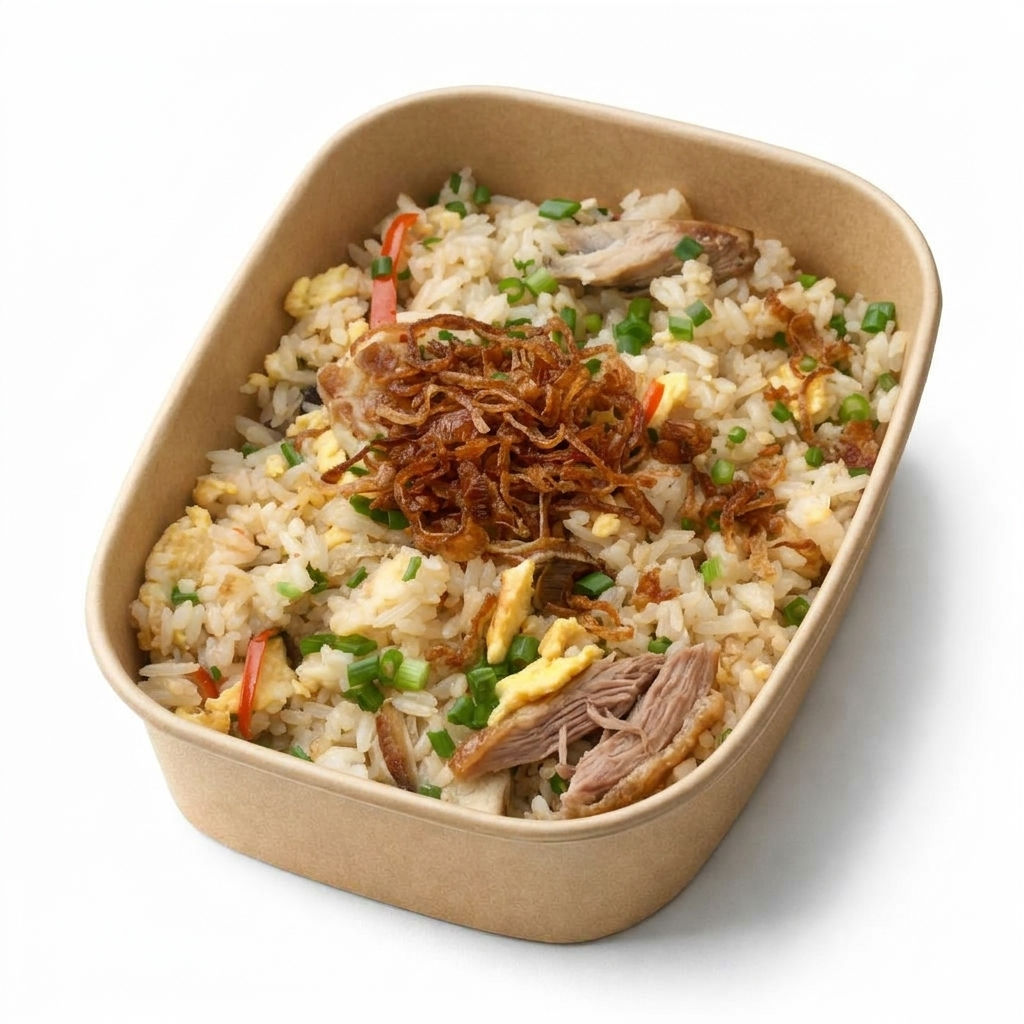
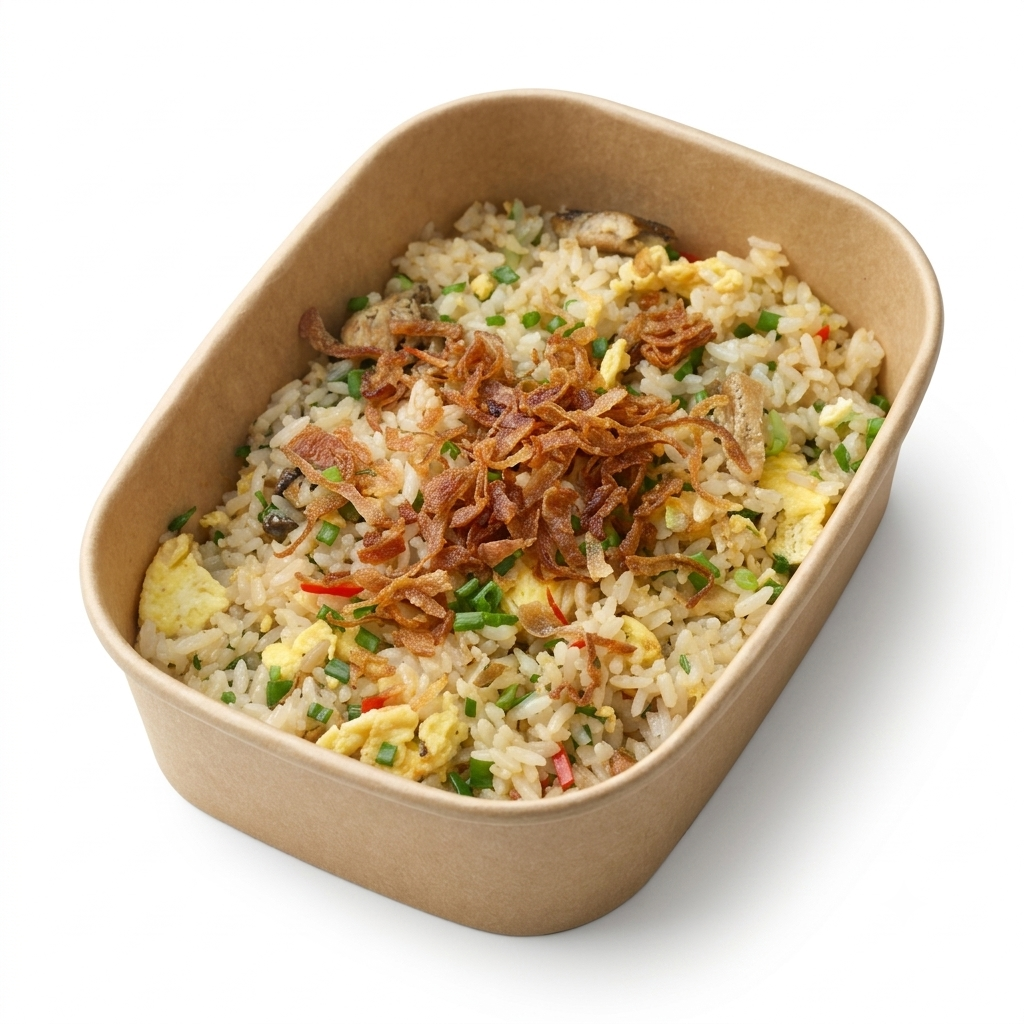
changes

diff --git a/app/Data/MamaMenuData.php b/app/Data/MamaMenuData.php
@@ -58,7 +58,7 @@ class MamaMenuData
                         self::product('MFR 20.', 'Korean BBQ Chicken Fried Rice', 'Fluffy rice tossed with tender chicken marinated in Korean BBQ sauce, egg, and stir-fried greens.', self::PRICE_380, '20.jpg', self::KHR_380),
                         self::product('MFR 22.', 'Roasted Duck Breast Fried Rice', 'Premium fried rice cooked with dark soy sauce, roasted duck breast, egg, and scallions.', self::PRICE_380, '22.jpg', self::KHR_380),
                         self::product('MFR 24.', 'Beef Laksa Fried Rice', 'A bold fusion creation packing laksa curry paste, beef, and egg into a wok-fried rice bowl.', self::PRICE_430, '24.jpg', self::KHR_430),
-                        self::product('MFR 25.', 'Mackerel Coconut Fried Rice', 'Deeply savory fried rice blending creamy coconut, flaked mackerel, egg, and local herbs.', self::PRICE_380, '25.jpg', self::KHR_380),
+                        self::product('MFR 25.', 'Mackerel Coconut Fried Rice', 'Deeply savory fried rice blending creamy coconut, flaked mackerel, egg, and local herbs.', self::PRICE_380, '25.png', self::KHR_380),
                     ]
                 ),
                 new MenuCategory(